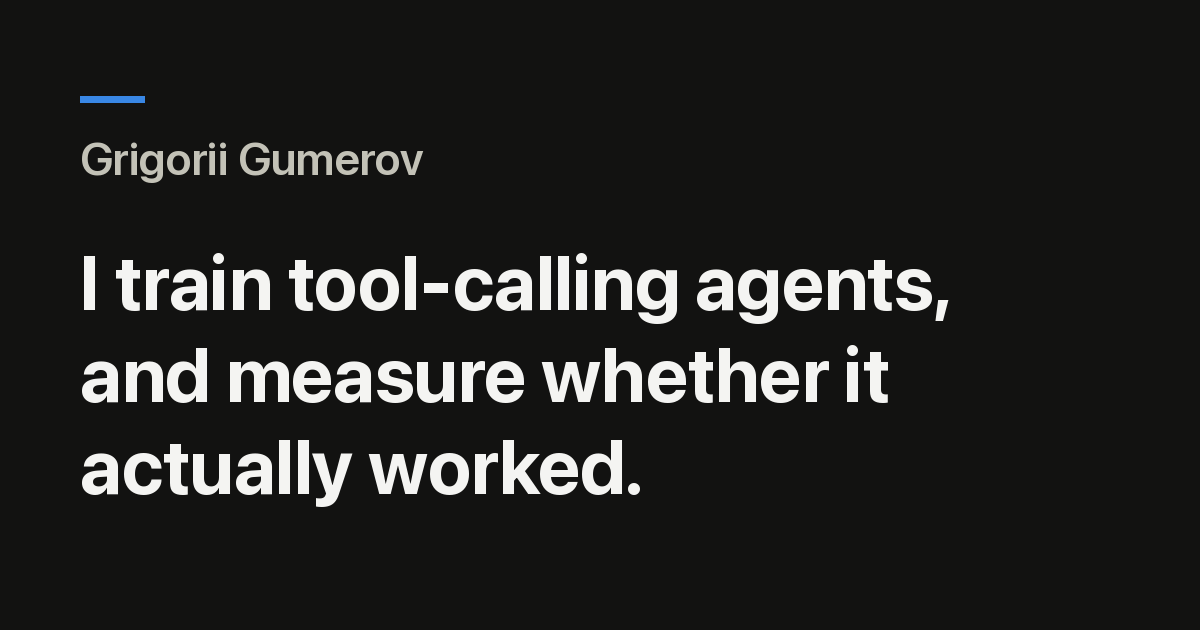
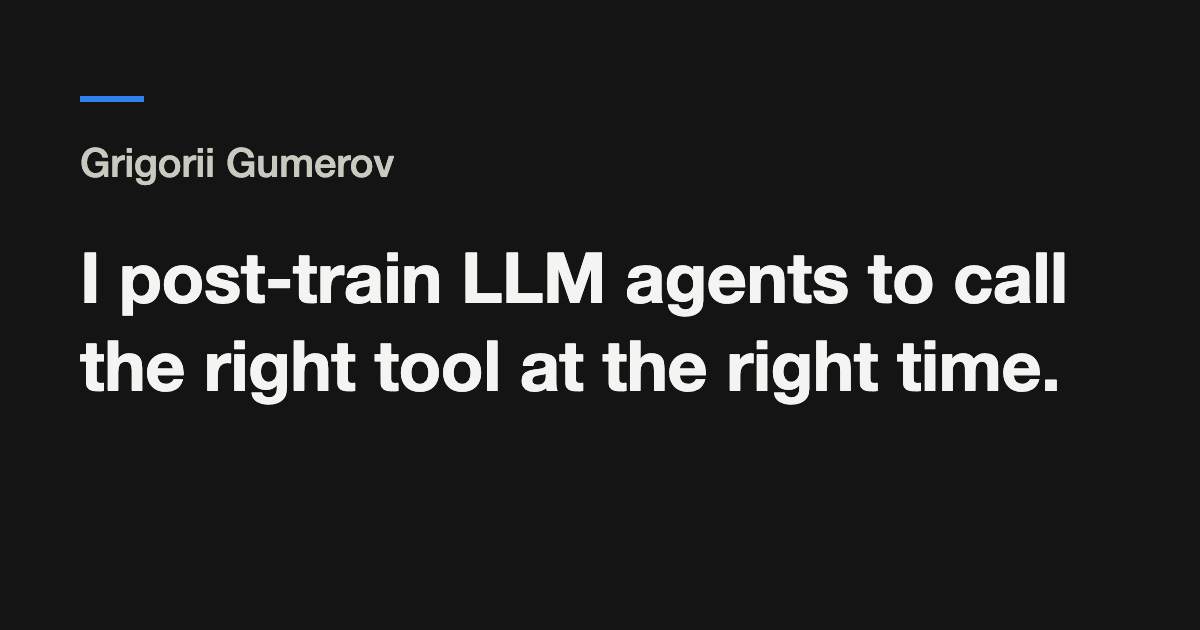
Change hero text to 'I post-train LLM agents to call the right tool at the right time'

diff --git a/index.html b/index.html
@@ -12,11 +12,11 @@
 <meta property="og:type" content="website">
 <meta property="og:url" content="https://teacher57.github.io/">
 <meta property="og:title" content="Grigorii Gumerov · AI Engineer">
-<meta property="og:description" content="I train tool-calling agents, and measure whether it actually worked.">
+<meta property="og:description" content="I post-train LLM agents to call the right tool at the right time.">
 <meta property="og:image" content="https://teacher57.github.io/assets/og-image.png">
 <meta property="og:image:width" content="1200">
 <meta property="og:image:height" content="630">
-<meta property="og:image:alt" content="Grigorii Gumerov: I train tool-calling agents, and measure whether it actually worked.">
+<meta property="og:image:alt" content="Grigorii Gumerov: I post-train LLM agents to call the right tool at the right time.">
 <meta name="twitter:card" content="summary_large_image">
 <style>
   :root {
@@ -162,7 +162,7 @@
     <div class="hero-top">
       <div>
         <p class="eyebrow">AI Engineer</p>
-        <h1>I train tool-calling agents, and measure whether it actually worked.</h1>
+        <h1>I post-train LLM agents to call the right tool at the right time.</h1>
       </div>
       <img class="avatar" src="assets/photo.jpg" width="520" height="520" alt="Grigorii Gumerov">
     </div>
